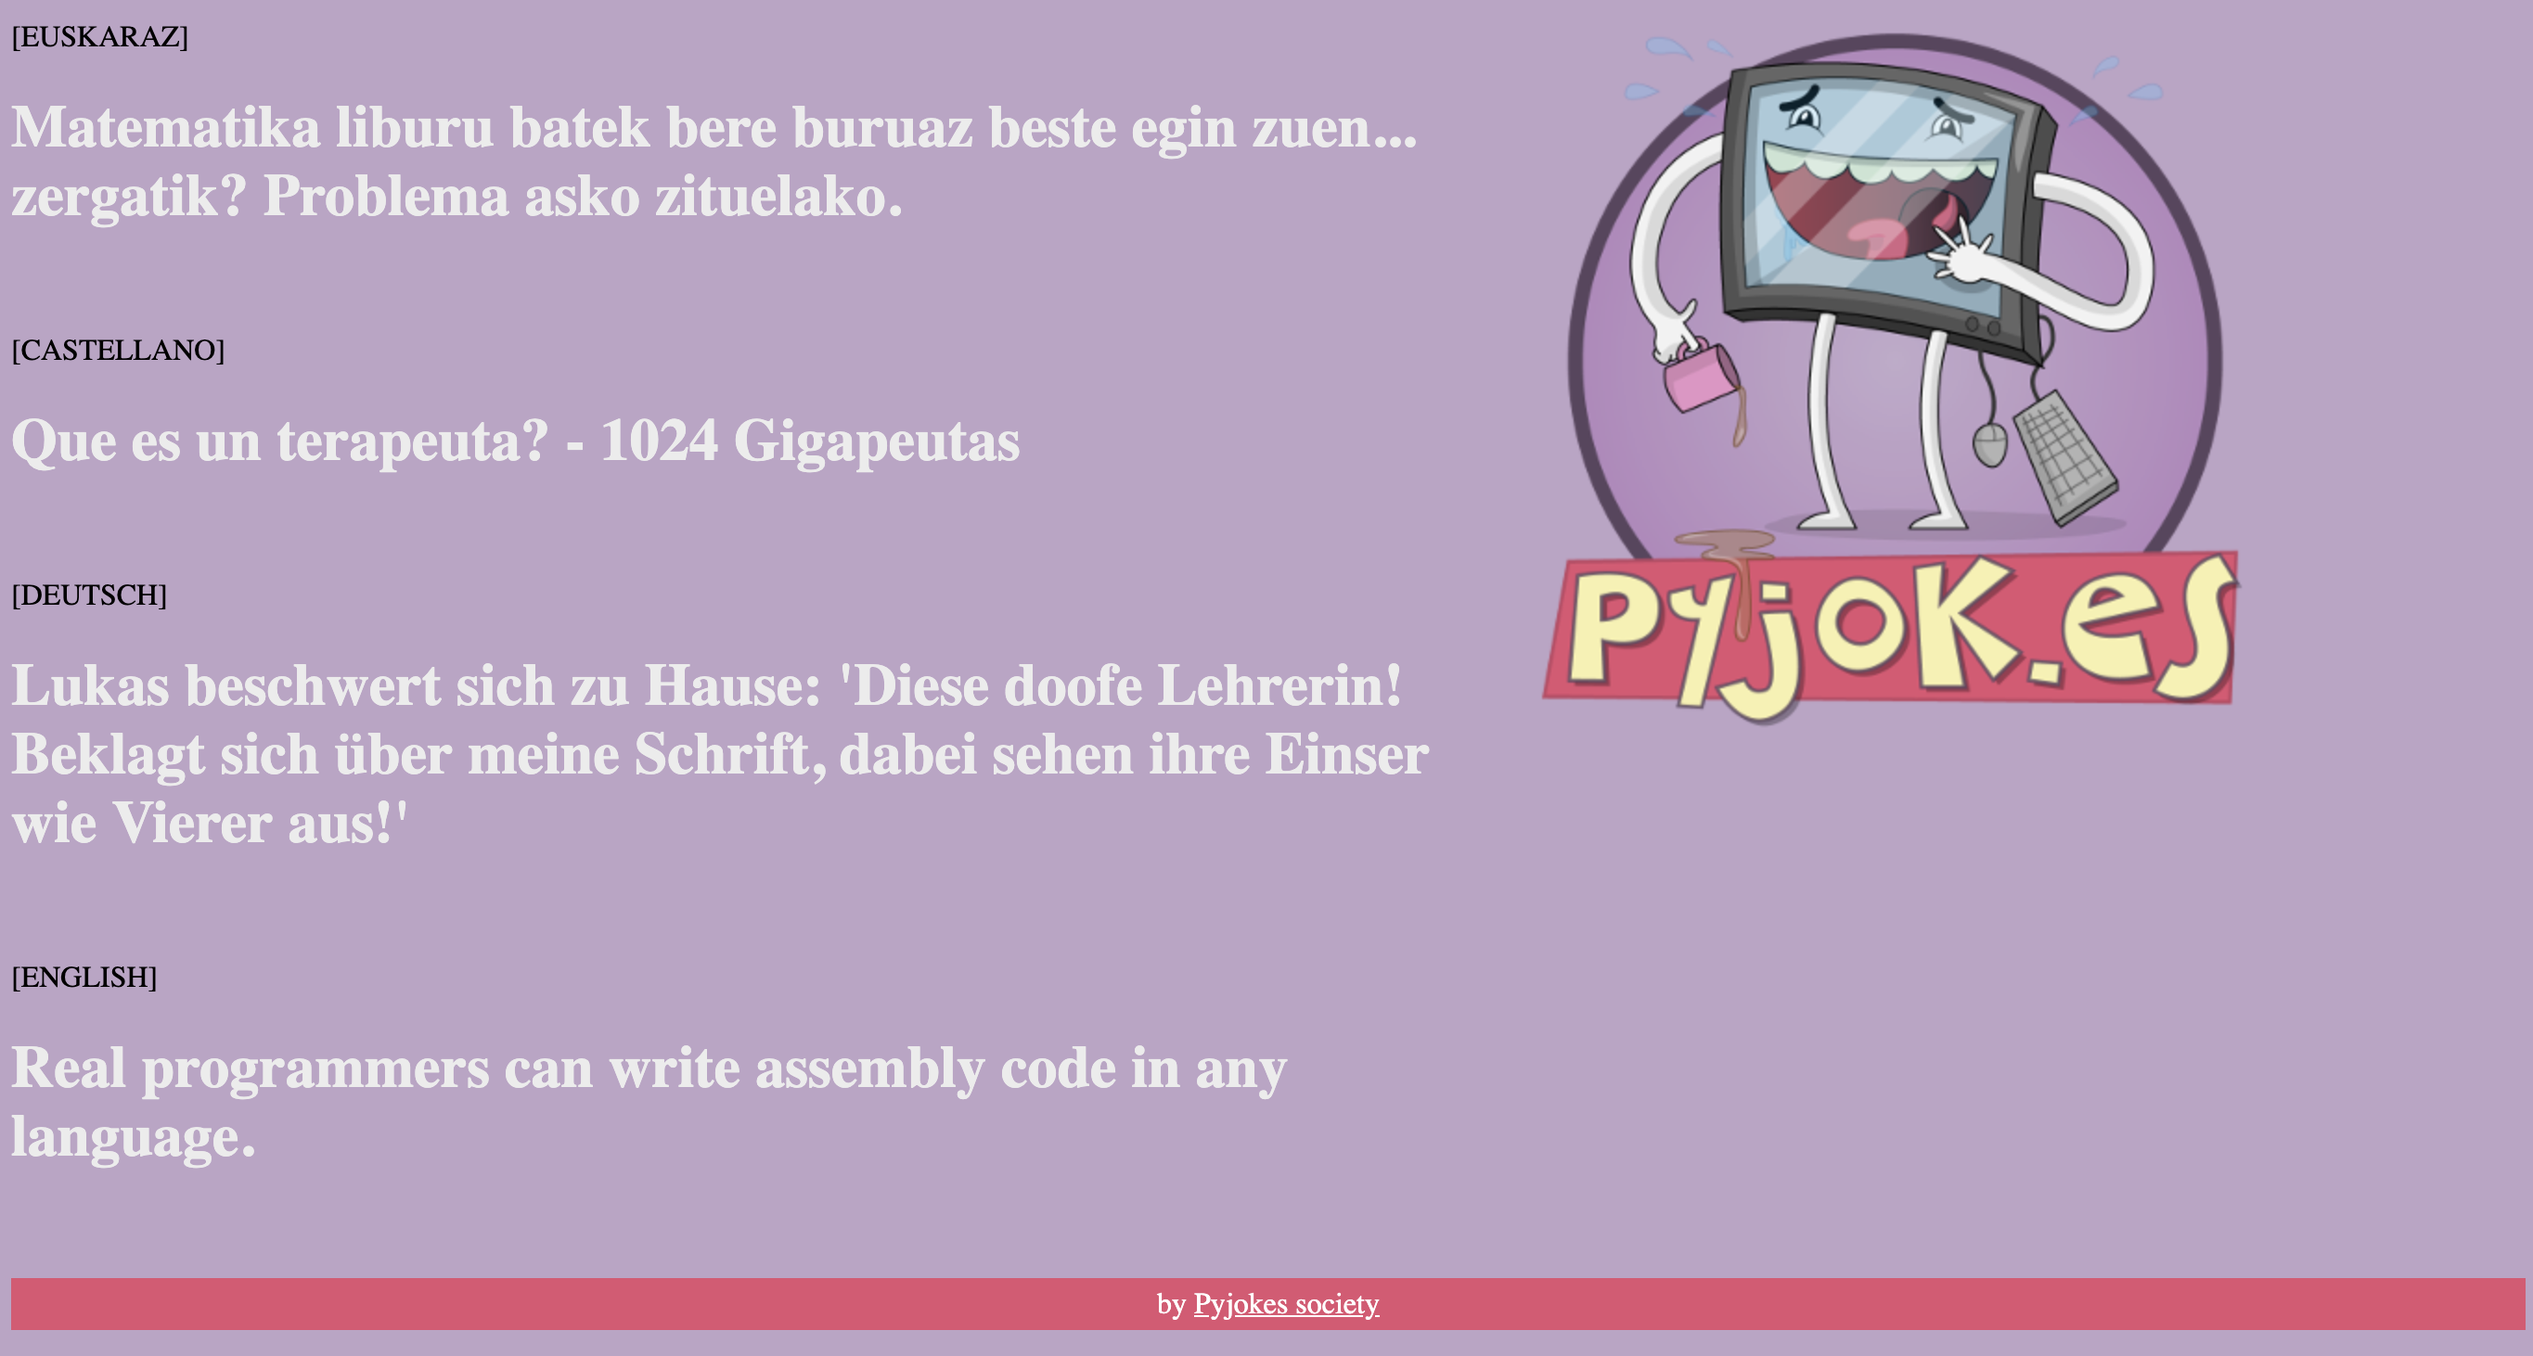
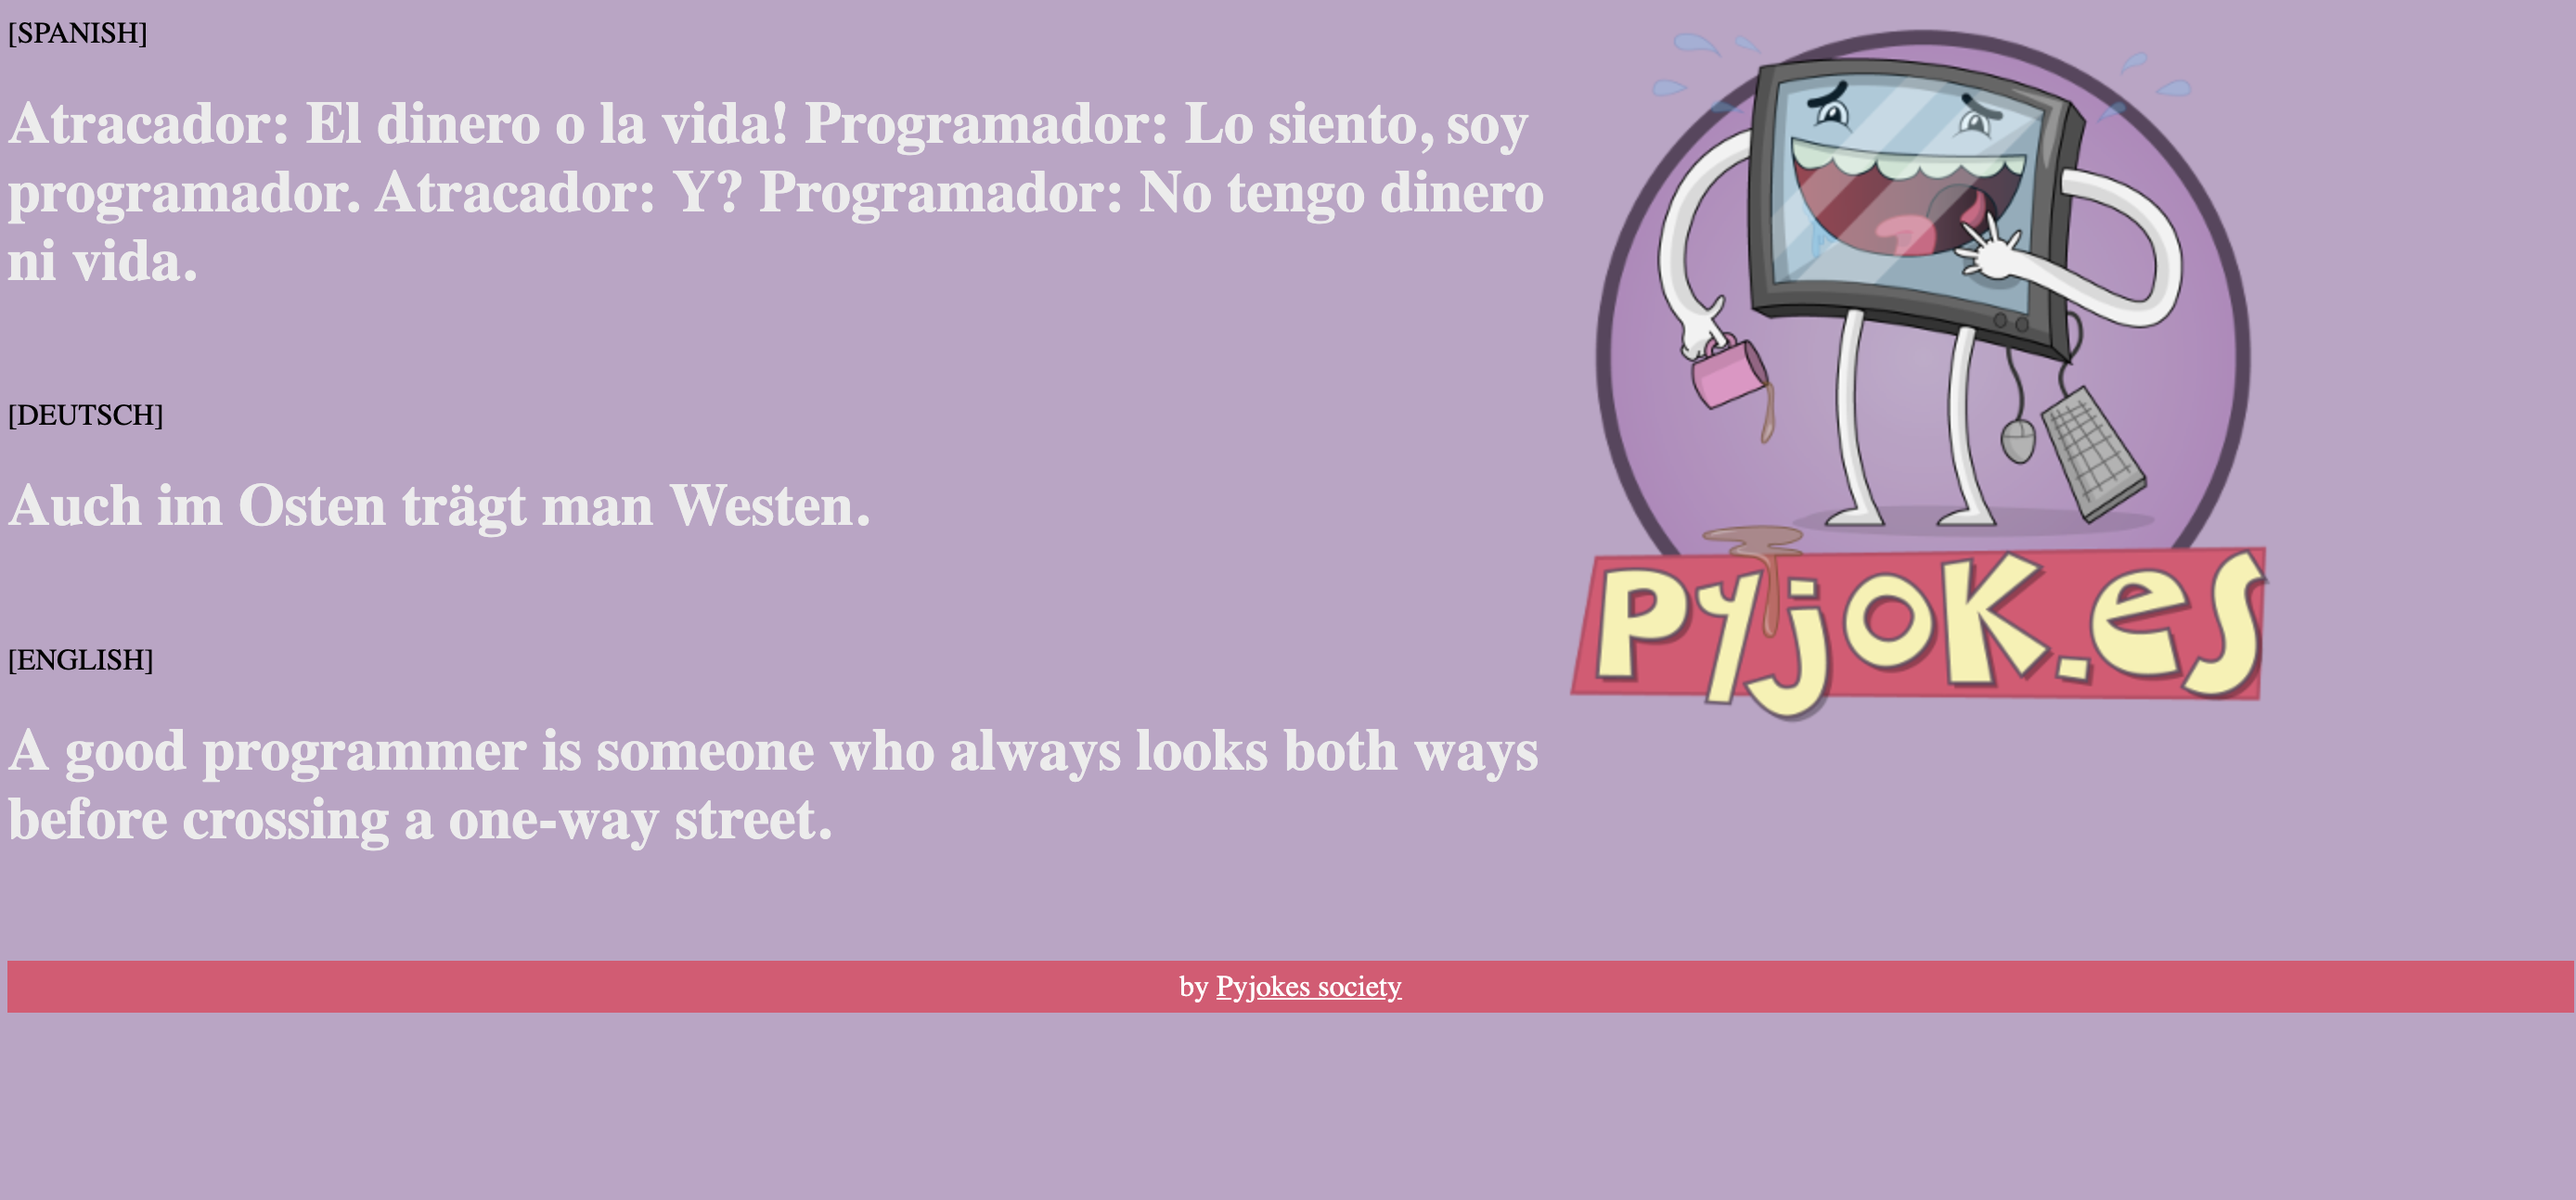
Deploy pyjoker web application into heroku server
Pyjoker application will be available for general usage
followed by: https://pyjokes-stand.herokuapp.com link.

diff --git a/templates/index.html b/templates/index.html
@@ -15,7 +15,7 @@
 </div>
 
 <div id="jokes">
-    <p>[CASTELLANO]</p> <h3> {{ spanish }} </h3> <br>
+    <p>[SPANISH]</p> <h3> {{ spanish }} </h3> <br>
     <p>[DEUTSCH]</p> <h3> {{ deutsch }} </h3> <br>
     <p>[ENGLISH]</p> <h3> {{ english }} </h3> <br>
 </div>

diff --git a/joker.py b/joker.py
@@ -1,4 +1,4 @@
-"""A module provides entrypoint API to run `py-joker` task master application."""
+"""A module provides entrypoint API to run `py-joker` master application."""
 from lib.setup import ServerConfig
 from lib.services import Service, PyJoker
 

diff --git a/README.md b/README.md
@@ -1,6 +1,7 @@
 # Python jokes web support
 This application represents support of random one line jokes for programmers (https://pyjok.es) shipped
 with **_python_** and [_flask_](http://flask.palletsprojects.com) micro-web framework.
+Please follow https://pyjokes-stand.herokuapp.com web app to see how it looks like.
 
 [![Build Status](https://travis-ci.org/vyahello/pyjokes-stand.svg?branch=master)](https://travis-ci.org/vyahello/pyjokes-stand)
 [![Coverage Status](https://coveralls.io/repos/github/vyahello/pyjokes-stand/badge.svg?branch=master)](https://coveralls.io/github/vyahello/pyjokes-stand?branch=master)
@@ -9,6 +10,7 @@ with **_python_** and [_flask_](http://flask.palletsprojects.com) micro-web fram
 - [Run application](#run-application)
 - [Demo](#demo)
 - [Run static code analysis](#run-static-code-analysis)
+- [Heroku deployment](#heroku-deployment)
 - [Contributing](#contributing)
 
 
@@ -28,6 +30,28 @@ To be able to start static code analysis _locally_ please run following script f
 ./run-code-assessment.sh install-dependencies
 ```
 Anyway it will be run via CI automatically after every change was made to the repo via Travis CI.
+
+### Heroku deployment
+Please follow instructions from - https://python-responder.org/en/latest/deployment.html
+
+- Install heroku following by - https://devcenter.heroku.com/articles/heroku-cli#download-and-install
+- Login to heroku
+```bash
+heroku login
+```
+- Create an application
+```bash
+heroku create pyjokes-stand
+```
+- Commit and push repo into a heroku
+```bash
+git add . && git commit -m "Add pyjokes heroku app" && git push heroku master
+```
+- Check heroku logs
+```bash
+heroku logs --tail
+```
+- Open an application via browser: https://pyjokes-stand.herokuapp.com
 
 ### Contributing
 - clone the repository
